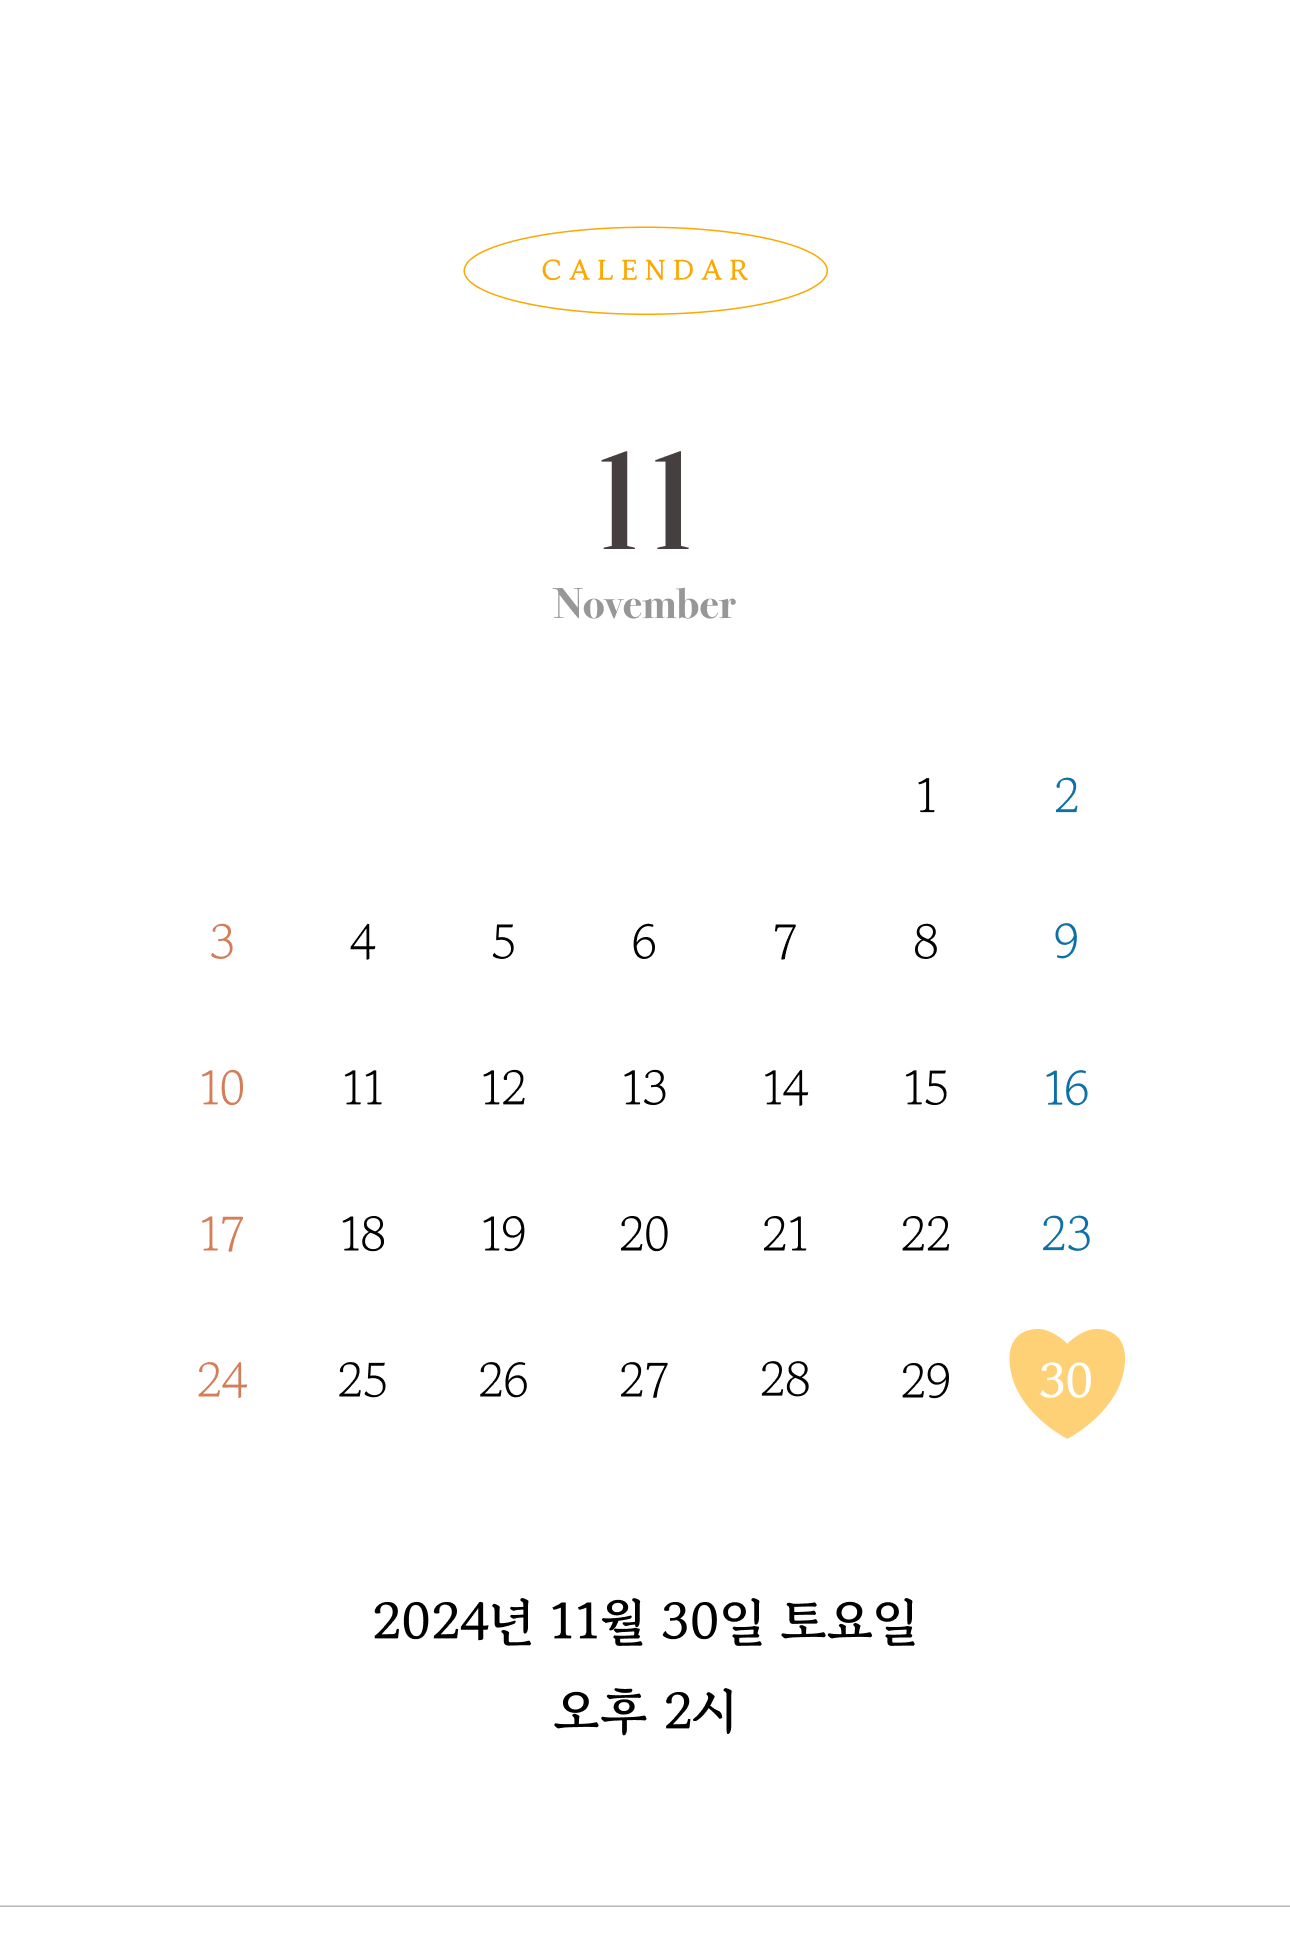
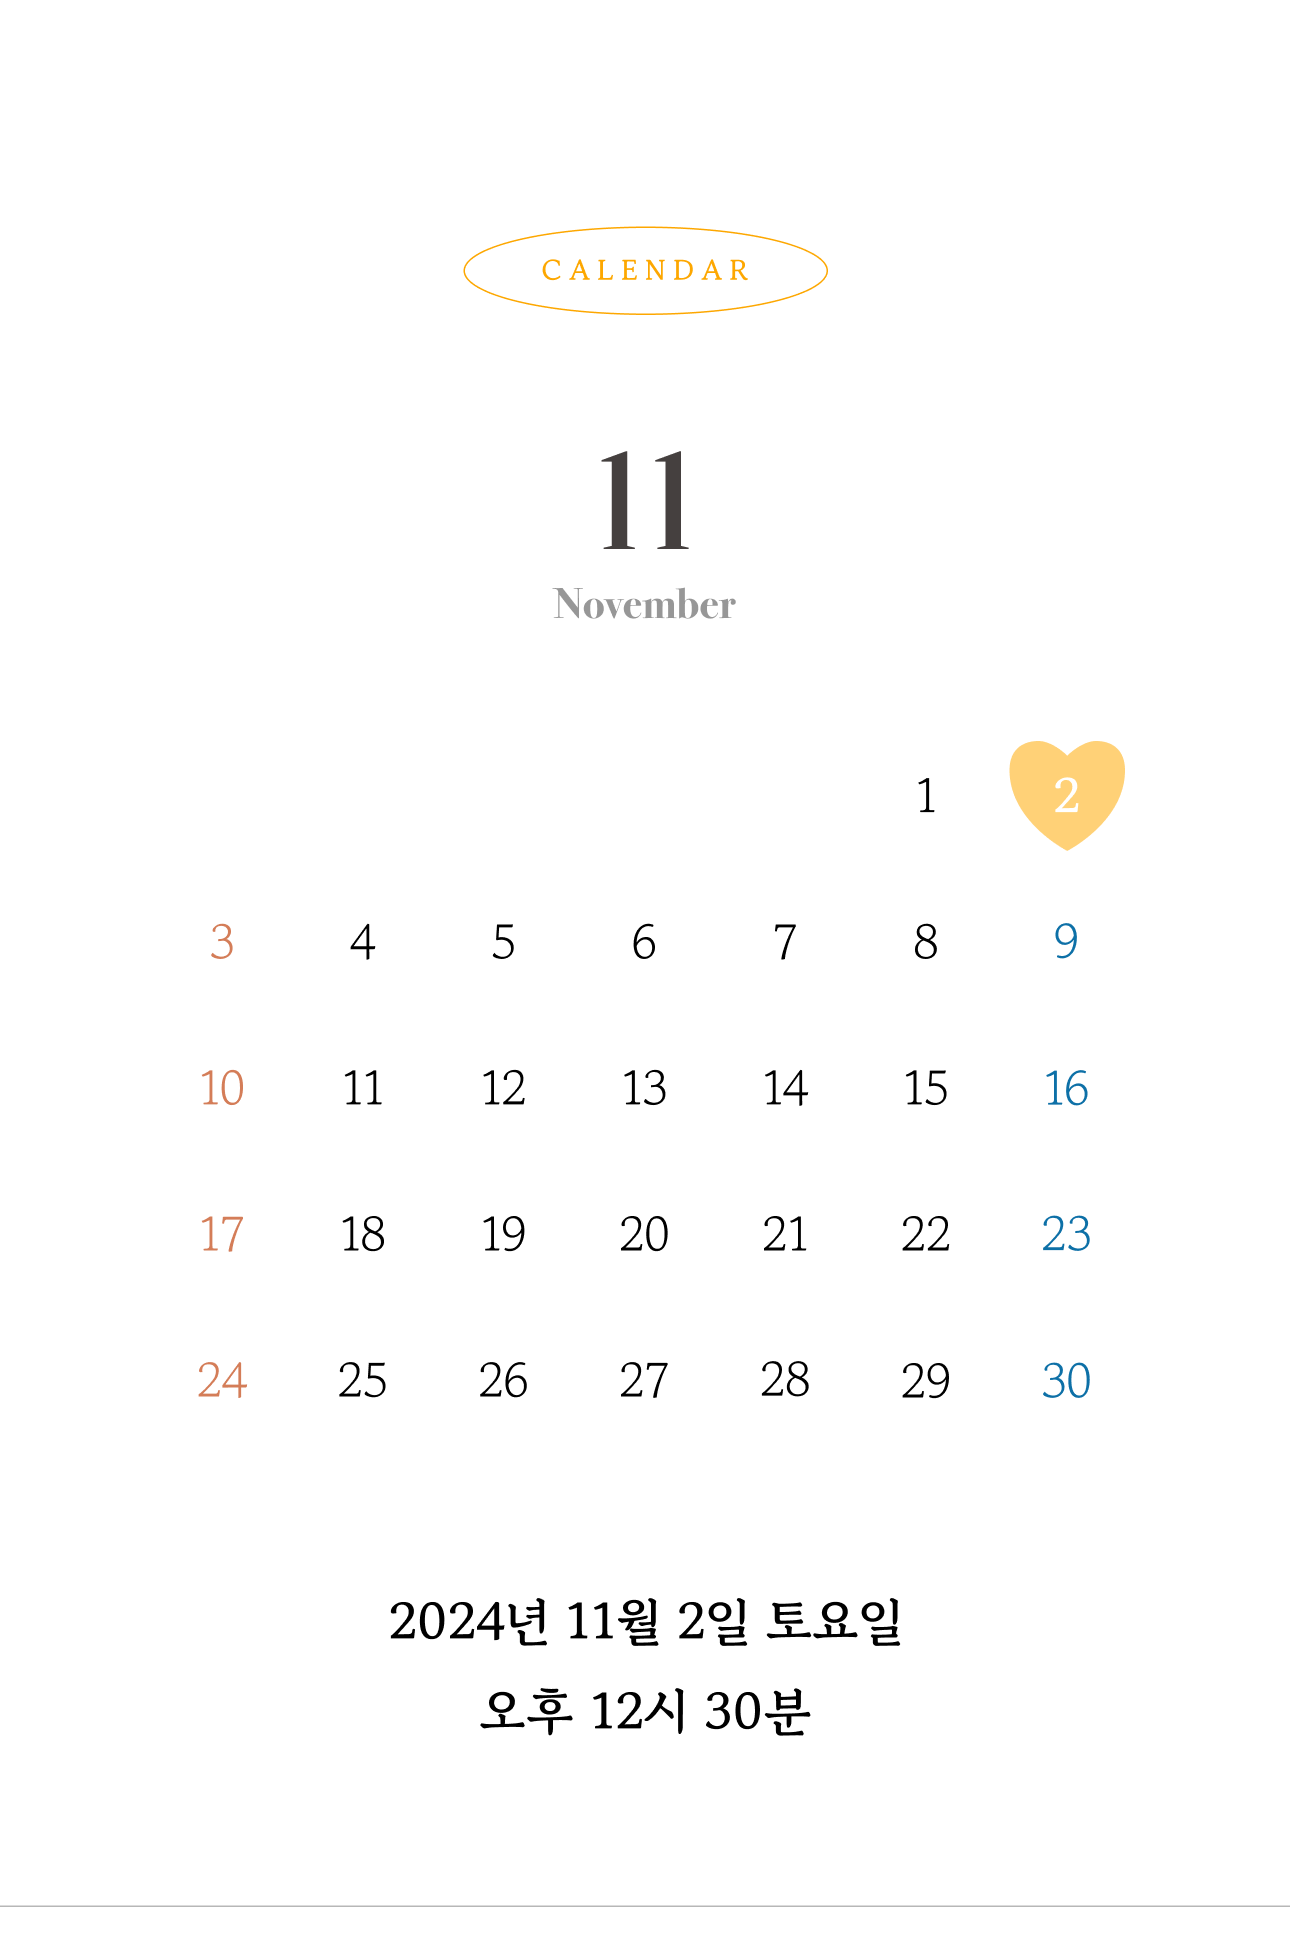
밑그림

Changed region(s): [[0.3101, 0.8054, 0.7132, 0.8983], [0.7752, 0.6815, 0.8682, 0.7434], [0.7752, 0.3717, 0.8682, 0.4337]]

diff --git a/index.html b/index.html
@@ -5,7 +5,7 @@
   <meta charset="utf-8" />
   <link rel="icon" href="/img/heart_icon.png" />
   <meta name="viewport" content="width=device-width" />
-  <title>김규형 ♥ 강미연의 결혼식에 초대합니다.</title>
+  <title>최효탁 ♥ 이효림의 결혼식에 초대합니다.</title>
   <meta http-equiv="X-UA-Compatible" content="IE=edge, chrome=1" />
   <meta name="viewport"
     content="width=device-width,initial-scale=1.0,maximum-scale=1.0,minimum-scale=1.0,user-scalable=no,target-densitydpi=medium-dpi" />
@@ -14,10 +14,10 @@
   <meta name="description" content="결혼식에 초대합니다♡" />
   <link rel="canonical" href="https://mo26.luvle.co.kr" />
   <meta property="og:url" content="https://mo26.luvle.co.kr" />
-  <meta property="og:title" content="김규형 ♥ 강미연의 결혼식에 초대합니다." />
+  <meta property="og:title" content="최효탁 ♥ 이효림의 결혼식에 초대합니다." />
   <meta property="og:description" content="결혼식에 초대합니다♡" />
   <meta property="og:image" content="https://i.imgur.com/tYuIfbQ.png" />
-  <meta property="og:site_name" content="김규형 ♥ 강미연의 결혼식에 초대합니다." />
+  <meta property="og:site_name" content="최효탁 ♥ 이효림의 결혼식에 초대합니다." />
   <script src="https://cdn.tailwindcss.com"></script>
   <link rel="stylesheet" type="text/css" href="style.css" />
   <link href="https://webfontworld.github.io/yangheeryu/GowunBatang.css" rel="stylesheet" />
@@ -91,16 +91,16 @@
             <div id="weddingDesc">
               <div style="line-height: 40px;">
                 <p id="parentInfo">
-                  <span style="font-size: large">김환 · 이영화</span>
+                  <span style="font-size: large">최기주 · 김명순</span>
                   <span>
                     <span>의</span>
                     <span style="
                           font-size: large;
                           min-width: 3rem;
                           display: inline-block;
-                        ">차남</span>
+                        ">삼남</span>
                   </span>
-                  <span style="font-size: large">김규형</span>
+                  <span style="font-size: large">최효탁</span>
                   <span style="
                         font-size: large;
                         display: inline-block;
@@ -121,16 +121,16 @@
                   </script>
                 </p>
                 <p id="parentInfo">
-                  <span style="font-size: large">강봉중 · 유석란</span>
+                  <span style="font-size: large">이경철 · 한미정</span>
                   <span>
                     <span>의</span>
                     <span style="
                           font-size: large;
                           min-width: 3rem;
                           display: inline-block;
-                        ">딸</span>
+                        ">장녀</span>
                   </span>
-                  <span style="font-size: large">강미연</span>
+                  <span style="font-size: large">이효림</span>
                   <span style="
                         font-size: large;
                         display: inline-block;
@@ -386,7 +386,7 @@
             </button>
             <div class="panel">
               <ul>
-                <li><strong>신랑 김규형 : </strong>농협은행 3561480501343</li>
+                <li><strong>신랑 최효탁 : </strong>농협은행 3561480501343</li>
                 
               </ul>
             </div>
@@ -396,7 +396,7 @@
             </button>
             <div class="panel">
               <ul>
-                <li><strong>신부 강미연 : </strong>카카오뱅크 3333021251920</li>
+                <li><strong>신부 이효림 : </strong>카카오뱅크 3333021251920</li>
         
 
 

diff --git a/countdown.js b/countdown.js
@@ -1,7 +1,7 @@
 document.addEventListener("DOMContentLoaded", function () {
   function updateCountdown() {
     // 결혼 날짜 설정 (년, 월(0부터 시작), 일, 시, 분)
-    const weddingDate = new Date(2024, 10, 30, 14, 0); // 예시: 2024년 10월 12일
+    const weddingDate = new Date(2024, 10, 2, 12, 30); // 예시: 2024년 10월 12일
 
     const currentDate = new Date();
     const timeDifference = weddingDate - currentDate;

diff --git a/gallery.js b/gallery.js
@@ -46,7 +46,7 @@ window.onload = () => {
     Kakao.Share.sendDefault({
       objectType: "feed",
       content: {
-        title: "김규형 ♥ 강미연의 모바일 청첩장",
+        title: "최효탁 ♥ 이효림의 모바일 청첩장",
         description: "결혼식에 초대합니다♡",
         imageUrl: "https://i.imgur.com/tYuIfbQ.png",
         imageWidth: 1200,
